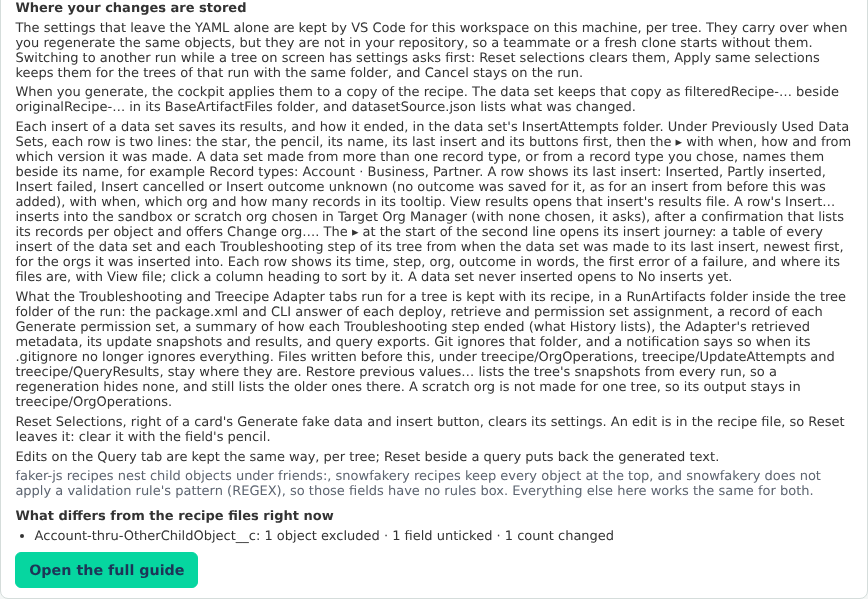
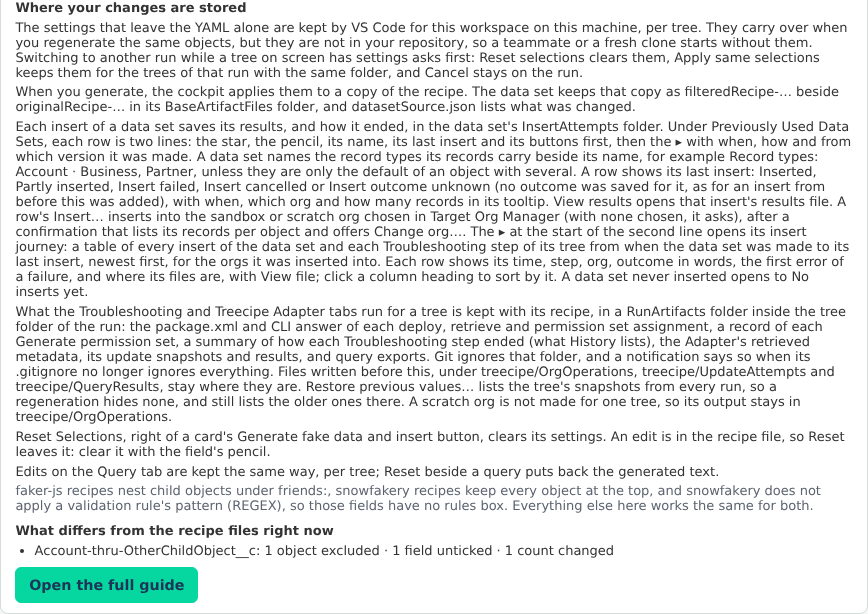
Review follow-ups on #626: wording, unused code, chip style, one read, tag caps
- Help, guide and comments: a data set names the record types its records
  carry unless only the default of an object with several (an object with
  one record type is named too, which "you chose" did not say).
- RecipeCockpitService calls the writer's record type block reader
  directly; the pass-through wrappers, the type re-export and the unused
  RECIPE_COCKPIT_RECORD_TYPE_OPTIONS_MARKER are gone.
- The data set chip has its own .treeDatasetRecordTypes rule on the chip
  palette pair, so no .recordTypeChip selector or z-index reaches it.
- Run Faker reads the tag from the cockpit's copy it already holds.
- readRecordTypesByObject drops a tag naming more than 100 objects or 200
  record types for one.

Claude-Session: https://claude.ai/code/session_01QDhJJFF5bBshNDcQUCgtYf

Changed region(s): [[0.0, 0.0, 0.9954, 0.9616], [0.4666, 0.8715, 0.7154, 0.9015]]

diff --git a/src/treecipe/src/RecipeCockpitService/RecipeCockpitService.ts b/src/treecipe/src/RecipeCockpitService/RecipeCockpitService.ts
@@ -483,7 +483,6 @@ export const RECIPE_COCKPIT_ADD_PARENT_OBJECT_NEST_LABEL = 'Add as the parent, n
 export const RECIPE_COCKPIT_TREE_TABS = ['treecipe', 'datasets', 'troubleshooting', 'query', 'updater'] as const;
 
 // THE TODO RecipeService WRITES UNDER A DEFAULT RecordTypeId (AND EVERY RECORD-TYPE VARIANT) WHEN AN OBJECT HAS SEVERAL RECORD TYPES
-export const RECIPE_COCKPIT_RECORD_TYPE_OPTIONS_MARKER = '### TODO: -- RecordType Options -- ';
 export const RECIPE_COCKPIT_TODO_REMOVE_CONFIRM_LABEL = 'Remove TODO';
 export const RECIPE_COCKPIT_TODO_RESTORE_CONFIRM_LABEL = 'Restore TODO';
 export const RECIPE_COCKPIT_TODO_REMOVE_REFUSAL_PREFIX = 'The TODO was not removed';
@@ -649,7 +648,7 @@ export const RECIPE_COCKPIT_HELP_SECTIONS: readonly IRecipeCockpitHelpSection[] 
         paragraphs: [
             'The settings that leave the YAML alone are kept by VS Code for this workspace on this machine, per tree. They carry over when you regenerate the same objects, but they are not in your repository, so a teammate or a fresh clone starts without them. Switching to another run while a tree on screen has settings asks first: Reset selections clears them, Apply same selections keeps them for the trees of that run with the same folder, and Cancel stays on the run.',
             'When you generate, the cockpit applies them to a copy of the recipe. The data set keeps that copy as filteredRecipe-… beside originalRecipe-… in its BaseArtifactFiles folder, and datasetSource.json lists what was changed.',
-            'Each insert of a data set saves its results, and how it ended, in the data set\'s InsertAttempts folder. Under Previously Used Data Sets, each row is two lines: the star, the pencil, its name, its last insert and its buttons first, then the ▸ with when, how and from which version it was made. A data set made from more than one record type, or from a record type you chose, names them beside its name, for example Record types: Account · Business, Partner. A row shows its last insert: Inserted, Partly inserted, Insert failed, Insert cancelled or Insert outcome unknown (no outcome was saved for it, as for an insert from before this was added), with when, which org and how many records in its tooltip. View results opens that insert\'s results file. A row\'s Insert… inserts into the sandbox or scratch org chosen in Target Org Manager (with none chosen, it asks), after a confirmation that lists its records per object and offers Change org…. The ▸ at the start of the second line opens its insert journey: a table of every insert of the data set and each Troubleshooting step of its tree from when the data set was made to its last insert, newest first, for the orgs it was inserted into. Each row shows its time, step, org, outcome in words, the first error of a failure, and where its files are, with View file; click a column heading to sort by it. A data set never inserted opens to No inserts yet.',
+            'Each insert of a data set saves its results, and how it ended, in the data set\'s InsertAttempts folder. Under Previously Used Data Sets, each row is two lines: the star, the pencil, its name, its last insert and its buttons first, then the ▸ with when, how and from which version it was made. A data set names the record types its records carry beside its name, for example Record types: Account · Business, Partner, unless they are only the default of an object with several. A row shows its last insert: Inserted, Partly inserted, Insert failed, Insert cancelled or Insert outcome unknown (no outcome was saved for it, as for an insert from before this was added), with when, which org and how many records in its tooltip. View results opens that insert\'s results file. A row\'s Insert… inserts into the sandbox or scratch org chosen in Target Org Manager (with none chosen, it asks), after a confirmation that lists its records per object and offers Change org…. The ▸ at the start of the second line opens its insert journey: a table of every insert of the data set and each Troubleshooting step of its tree from when the data set was made to its last insert, newest first, for the orgs it was inserted into. Each row shows its time, step, org, outcome in words, the first error of a failure, and where its files are, with View file; click a column heading to sort by it. A data set never inserted opens to No inserts yet.',
             'What the Troubleshooting and Treecipe Adapter tabs run for a tree is kept with its recipe, in a RunArtifacts folder inside the tree folder of the run: the package.xml and CLI answer of each deploy, retrieve and permission set assignment, a record of each Generate permission set, a summary of how each Troubleshooting step ended (what History lists), the Adapter\'s retrieved metadata, its update snapshots and results, and query exports. Git ignores that folder, and a notification says so when its .gitignore no longer ignores everything. Files written before this, under treecipe/OrgOperations, treecipe/UpdateAttempts and treecipe/QueryResults, stay where they are. Restore previous values… lists the tree\'s snapshots from every run, so a regeneration hides none, and still lists the older ones there. A scratch org is not made for one tree, so its output stays in treecipe/OrgOperations.',
             'Reset Selections, right of a card\'s Generate fake data and insert button, clears its settings. An edit is in the recipe file, so Reset leaves it: clear it with the field\'s pencil.',
             'Edits on the Query tab are kept the same way, per tree; Reset beside a query puts back the generated text.'
@@ -1282,8 +1281,6 @@ export interface IRecipeSourceFile {
     objectEntries: Map<string, IRecipeSourceObjectEntry>;
 }
 
-// WHAT A RUN'S BLOCKS WRITE AS RecordTypeId, COLLECTED BY THE SAME SCAN parseRecipeSource MAKES (#195); THE WRITER READS IT (#621)
-export type { IRecipeRecordTypeBlocks };
 
 /*
     Everything the cockpit webview can post back.
@@ -20774,18 +20771,6 @@ export class RecipeCockpitService {
     }
 
     // AN OBJECT WHOSE RECIPE NAMES NONE OF ITS RECORD TYPES IS DRAWN WITH THE DEFAULT TICKED: THE FIRST ACTIVE ONE, AS GENERATION PICKS
-    static buildEmptyRecordTypeBlocks(): IRecipeRecordTypeBlocks {
-
-        return RecipeCockpitRecipeWriter.buildEmptyRecordTypeBlocks();
-
-    }
-
-    static collectRecordTypeBlocks(lines: string[], scannedObjects: IScannedObject[], recordTypeBlocks: IRecipeRecordTypeBlocks): void {
-
-        RecipeCockpitRecipeWriter.collectRecordTypeBlocks(lines, scannedObjects, recordTypeBlocks);
-
-    }
-
     static applyGeneratedRecordTypes(objects: IRecipeCockpitObjectViewModel[], recordTypeBlocks: IRecipeRecordTypeBlocks): void {
 
         const { developerNamesByObjectApiName, defaultWrittenObjectApiNames } = recordTypeBlocks;
@@ -21136,7 +21121,7 @@ export class RecipeCockpitService {
         const recipeSourceFiles: IRecipeSourceFile[] = [];
         const notices: string[] = [];
         const recipeTextsByFilePath = new Map<string, string>();
-        const recordTypeBlocks = this.buildEmptyRecordTypeBlocks();
+        const recordTypeBlocks = RecipeCockpitRecipeWriter.buildEmptyRecordTypeBlocks();
 
         this.collectRecipeFilePaths(runFolderPath)
             .filter(recipeFilePath => SfdxProjectService.isPathContainedInWorkspace(path.resolve(recipeFilePath), path.resolve(workspaceRoot)))
@@ -21215,7 +21200,7 @@ export class RecipeCockpitService {
         const { lines } = RecipeCockpitRecipeWriter.splitRecipeLines(recipeContent);
         const scannedObjects = RecipeCockpitRecipeWriter.scanRecipeObjects(lines);
         if ( recordTypeBlocks ) {
-            this.collectRecordTypeBlocks(lines, scannedObjects, recordTypeBlocks);
+            RecipeCockpitRecipeWriter.collectRecordTypeBlocks(lines, scannedObjects, recordTypeBlocks);
         }
         const scannedFriendIndex = RecipeCockpitRecipeWriter.buildScannedFriendIndex(scannedObjects);
         const scannedObjectsByHeaderIndex = scannedFriendIndex.objectsByHeaderIndex;
@@ -21921,6 +21906,7 @@ ${COCKPIT_KIT_BUTTON_KIND_CHECK_STYLES}
         background-color: var(--sdt-chip-bg);
         border-radius: 3px;
     }
+    .treeDatasetRecordTypes { padding: 0 0.35em; font-size: 0.85em; color: var(--sdt-chip-text); background-color: var(--sdt-chip-bg); border-radius: 3px; }
     .recordTypeChip {
         position: relative;
         z-index: 2;
@@ -27284,10 +27270,10 @@ ${COCKPIT_KIT_CREATE_BUTTON_SCRIPT}
         rowState.nameElement = createElement('span', 'treeDatasetName');
         primaryLineElement.appendChild(rowState.nameElement);
 
-        // THE RECORD TYPES ITS RECORDS CARRY (#621), BESIDE THE NAME A READER PICKS A DATA SET BY
+        // THE RECORD TYPES ITS RECORDS CARRY (#621), BESIDE THE NAME A READER PICKS A DATA SET BY; ITS OWN CLASS, SO NO .recordTypeChip SELECTOR FINDS IT
         if (dataset.recordTypes) {
             const recordTypesText = formatDatasetRecordTypes(dataset.recordTypes);
-            const recordTypesChipElement = createElement('span', 'recordTypeChip treeDatasetRecordTypes', recordTypesText);
+            const recordTypesChipElement = createElement('span', 'treeDatasetRecordTypes', recordTypesText);
             recordTypesChipElement.setAttribute('title', 'Generated with ' + recordTypesText);
             primaryLineElement.appendChild(recordTypesChipElement);
         }

diff --git a/src/treecipe/src/DatasetSourceService/DatasetSourceService.ts b/src/treecipe/src/DatasetSourceService/DatasetSourceService.ts
@@ -10,6 +10,10 @@ const BASE_ARTIFACT_FILES_FOLDER_NAME = 'BaseArtifactFiles';
 // SalesforceApiName.pattern, repeated so this service keeps importing only fs and path; a test holds the two equal
 export const DATASET_SOURCE_API_NAME_PATTERN = /^[A-Za-z][A-Za-z0-9_]*$/;
 
+// THE MOST A recordTypesByObject TAG MAY NAME (#621): ONE GENERATE TICKS A FEW PER OBJECT, SO ANYTHING NEAR THESE WAS NOT WRITTEN BY RUN FAKER
+export const DATASET_SOURCE_MAX_RECORD_TYPE_OBJECTS = 100;
+export const DATASET_SOURCE_MAX_RECORD_TYPES_PER_OBJECT = 200;
+
 // ConfigurationService.getDatasetFilesForCollectionsApiFolderName, repeated so this service keeps importing only fs and path
 export const DATASET_COLLECTIONS_API_FOLDER_NAME = 'DatasetFilesForCollectionsApi';
 
@@ -108,7 +112,7 @@ export interface IDatasetSource {
     constraintsByObject?: Record<string, Record<string, IDatasetSourceFieldConstraint>>;
     // THE FIELDS WHOSE VALIDATION RULES THE RECIPE COCKPIT SWITCHED OFF (#325), BY OBJECT; ABSENT WHEN NONE WAS. READ BACK WITH NO PROTOTYPE
     validationRulesOffByObject?: Record<string, string[]>;
-    // THE RECORD TYPES THE RECORDS CARRY BECAUSE THEY WERE CHOSEN (#621), BY OBJECT, DEVELOPER NAMES IN BLOCK ORDER; ABSENT WHEN NONE WAS. READ BACK WITH NO PROTOTYPE
+    // THE RECORD TYPES THE RECORDS CARRY (#621), UNLESS ONLY THE DEFAULT OF AN OBJECT WITH SEVERAL, BY OBJECT, DEVELOPER NAMES IN BLOCK ORDER; ABSENT WHEN NONE IS. READ BACK WITH NO PROTOTYPE
     recordTypesByObject?: Record<string, string[]>;
     adaptation?: IDatasetSourceAdaptation;
 }
@@ -704,6 +708,8 @@ export class DatasetSourceService {
         The record types a data set carries (#621), as untrusted JSON. Unlike the fields above, a tag
         only labels a row, so one out of shape is dropped and the rest of the file still reads: every
         object and developer name must be an api name, each list non-empty, and the map has no prototype.
+        The file arrives with a cloned repository, and the panel draws the tag as one chip, so a tag
+        naming more than an org could hold is dropped too.
     */
     static readRecordTypesByObject(candidate: unknown): Record<string, string[]> | undefined {
 
@@ -712,10 +718,11 @@ export class DatasetSourceService {
         }
 
         const entries = Object.entries(candidate as Record<string, unknown>);
-        const isEveryEntryValid = entries.length > 0 && entries.every(([objectApiName, developerNames]) => (
+        const isEveryEntryValid = entries.length > 0 && entries.length <= DATASET_SOURCE_MAX_RECORD_TYPE_OBJECTS && entries.every(([objectApiName, developerNames]) => (
             DATASET_SOURCE_API_NAME_PATTERN.test(objectApiName)
             && Array.isArray(developerNames)
             && developerNames.length > 0
+            && developerNames.length <= DATASET_SOURCE_MAX_RECORD_TYPES_PER_OBJECT
             && developerNames.every(developerName => typeof developerName === 'string' && DATASET_SOURCE_API_NAME_PATTERN.test(developerName))
         ));
 

diff --git a/src/treecipe/src/DatasetSourceService/tests/DatasetSourceService.test.ts b/src/treecipe/src/DatasetSourceService/tests/DatasetSourceService.test.ts
@@ -9,6 +9,8 @@ import {
     DatasetSourceService,
     DATASET_COLLECTIONS_API_FOLDER_NAME,
     DATASET_SOURCE_API_NAME_PATTERN,
+    DATASET_SOURCE_MAX_RECORD_TYPE_OBJECTS,
+    DATASET_SOURCE_MAX_RECORD_TYPES_PER_OBJECT,
     DATASET_SOURCE_FILE_NAME,
     IDatasetSource,
     IKnownRecipeRun
@@ -754,6 +756,18 @@ describe('DatasetSourceService', () => {
                 const readSource = DatasetSourceService.typeCheckDatasetSource({ ...validDatasetSource, recordTypesByObject });
 
                 expect(readSource).toEqual(validDatasetSource);
+
+            });
+
+            test('reads a tag at its caps, and drops one past either cap', () => {
+
+                const listDeveloperNames = (developerNameCount: number) => Array.from({ length: developerNameCount }, (_unused, developerNameIndex) => `Type${developerNameIndex}`);
+                const buildObjects = (objectCount: number) => Object.fromEntries(Array.from({ length: objectCount }, (_unused, objectIndex) => [`Object${objectIndex}__c`, ['Business']]));
+
+                expect(DatasetSourceService.typeCheckDatasetSource({ ...validDatasetSource, recordTypesByObject: buildObjects(DATASET_SOURCE_MAX_RECORD_TYPE_OBJECTS) })).toHaveProperty('recordTypesByObject');
+                expect(DatasetSourceService.typeCheckDatasetSource({ ...validDatasetSource, recordTypesByObject: { Account: listDeveloperNames(DATASET_SOURCE_MAX_RECORD_TYPES_PER_OBJECT) } })).toHaveProperty('recordTypesByObject');
+                expect(DatasetSourceService.typeCheckDatasetSource({ ...validDatasetSource, recordTypesByObject: buildObjects(DATASET_SOURCE_MAX_RECORD_TYPE_OBJECTS + 1) })).toEqual(validDatasetSource);
+                expect(DatasetSourceService.typeCheckDatasetSource({ ...validDatasetSource, recordTypesByObject: { Account: listDeveloperNames(DATASET_SOURCE_MAX_RECORD_TYPES_PER_OBJECT + 1) } })).toEqual(validDatasetSource);
 
             });
 

diff --git a/src/treecipe/src/RecipeCockpitService/tests/RecipeCockpitRecordTypes.test.ts b/src/treecipe/src/RecipeCockpitService/tests/RecipeCockpitRecordTypes.test.ts
@@ -31,6 +31,7 @@ import { RecipeService } from '../../RecipeService/RecipeService';
 import { FakerJSRecipeFakerService } from '../../RecipeFakerService.ts/FakerJSRecipeFakerService/FakerJSRecipeFakerService';
 import { RecordTypeSelection } from '../../RecordTypeService/RecordTypeSelection';
 import { RecordTypeSelectionConfiguration } from '../../RecordTypeSelectionService/RecordTypeSelectionConfiguration';
+import { RecipeCockpitRecipeWriter } from '../../RecipeWriter/RecipeCockpitRecipeWriter';
 
 /*
     The Record types tab (#195): each tree card lists the objects it draws that have two or more
@@ -159,7 +160,7 @@ describe('RecipeCockpitService, the Record types tab (#195)', () => {
         describe('applyGeneratedRecordTypes', () => {
 
             const readRecordTypeBlocks = (recipeTexts: string[]) => {
-                const recordTypeBlocks = RecipeCockpitService.buildEmptyRecordTypeBlocks();
+                const recordTypeBlocks = RecipeCockpitRecipeWriter.buildEmptyRecordTypeBlocks();
                 recipeTexts.forEach(recipeText => RecipeCockpitService.parseRecipeSource(recipeText, recordTypeBlocks));
                 return recordTypeBlocks;
             };

diff --git a/src/treecipe/src/RecipeCockpitService/RecipeCockpitTreeHistory.ts b/src/treecipe/src/RecipeCockpitService/RecipeCockpitTreeHistory.ts
@@ -73,7 +73,7 @@ export interface IRecipeCockpitTreeDatasetViewModel {
     isFavorite?: boolean;
     // A DATA SET THE TREECIPE ADAPTER WROTE (#448), DRAWN WITH AN "adapted" LABEL; ABSENT OTHERWISE
     isAdapted?: true;
-    // THE RECORD TYPES ITS RECORDS CARRY BECAUSE THEY WERE CHOSEN (#621), IN THE ORDER datasetSource.json NAMES THEM; ABSENT WHEN IT NAMES NONE
+    // THE RECORD TYPES ITS RECORDS CARRY (#621), UNLESS ONLY THE DEFAULT OF AN OBJECT WITH SEVERAL, IN THE ORDER datasetSource.json NAMES THEM; ABSENT WHEN IT NAMES NONE
     recordTypes?: IRecipeCockpitDatasetRecordTypesViewModel[];
     // ITS NEWEST INSERT (#469); ABSENT FOR A DATA SET NEVER INSERTED, WHICH DRAWS AS IT ALWAYS DID
     lastInsert?: IRecipeCockpitDatasetLastInsertViewModel;

diff --git a/src/treecipe/src/ExtensionCommandService/ExtensionCommandService.ts b/src/treecipe/src/ExtensionCommandService/ExtensionCommandService.ts
@@ -342,7 +342,7 @@ export class ExtensionCommandService {
                 filteredRecipe?.fixedValuesByObject ?? {},
                 filteredRecipe?.constraintsByObject ?? {},
                 filteredRecipe?.validationRulesOffByObject ?? {},
-                Object.fromEntries(RecipeCockpitRecipeWriter.listChosenRecordTypesByObject(fs.readFileSync(generationRecipeFilePath, 'utf8')))
+                Object.fromEntries(RecipeCockpitRecipeWriter.listChosenRecordTypesByObject(filteredRecipe?.recipeText ?? fs.readFileSync(generationRecipeFilePath, 'utf8')))
             );
             DatasetSourceService.writeDatasetSourceFile(fullPathToBaseArtifactsFolder, datasetSource);
             datasetFolderPath = fullPathToUniqueTimeStampedFakeDataSetsFolder;

diff --git a/src/treecipe/src/RecipeWriter/DESIGN.md b/src/treecipe/src/RecipeWriter/DESIGN.md
@@ -6,7 +6,7 @@
 
 - **The Recipe Cockpit writes a recipe by patching LINES, never by round-tripping YAML** — both backends emit recipes as template strings, and the `### TODO` comments in them carry meaning (which record type to pick, which lookup needs a reference) that `js-yaml` drops on `dump`, so a load-and-dump is lossy by construction. `RecipeCockpitRecipeWriter` is pure and imports NOTHING (a test fails if it gains an import): text in, text plus an `edit` or a typed refusal out. It holds to the same layout contract `parseRecipeSource` reads — the reader IS its `scanRecipeObjects` — and every line outside the touched field's own lines is byte-identical afterwards, line ending included — new lines take the ending of the line they follow, and a missing final newline stays missing. The READER takes the first occurrence of an object or field, which is right for jumping to a line and wrong for changing one, so the WRITER refuses a duplicate object, field, `fields:` block or property rather than guessing which the reader meant. A friend under `friends:` (#46) is the same contract shifted: `scanRecipeObjects` keeps the open objects as a stack, one per level, the object at depth d has its `- object:` at column 4d and every other column (`getObjectLayout`) four spaces deeper per level, and a `- object:` line opens a friend ONLY one level down and only inside its parent's `friends:` block — anywhere else it is an unrecognized line, as it always was. A value handed to `insertField`/`replaceFieldValue` is written as for a top-level object and its continuation lines are moved to the friend's depth, so no caller has to know the depth. `commentOutField` is the removal because it is reversible: the lines sit at the FIELD column (four spaces at the top level) under a `### TODO -- RECIPE COCKPIT -- FIELD COMMENTED OUT -- <field> -- <n> lines` marker (deeper would read as the previous field's continuation), their encoding has one inverse, and `restoreCommentedOutField` gives the original back byte for byte. The COUNT is what bounds a restore — without it a reader's own comment directly below read as more of the field — and restore refuses unless those lines are still exactly what was written — which is why the reader treats a comment at field depth or shallower as ending the FIELD and not the BLOCK. The `yaml` package's comment-preserving `Document` API was the alternative; it is a new runtime dependency and re-flows `${{ }}` scalars, so it would still need every fidelity test. Values and names are validated so no argument can add a line the layout would read as another field or object — and that includes the line breaks the JS split does not see: PyYAML (snowfakery's reader) breaks at U+0085, U+2028 and U+2029, so a value carrying one is refused rather than split. Every call scans the whole file, so bulk edits need a one-scan batch entry point before a slice applies them. `insertFriend` (#197) is the one operation that ADDS an object: it copies the friend's own block from the occurrence above a self-lookup iteration (never its `friends:`), one level deeper, with a nickname no occurrence holds and every value that was the top occurrence's nickname re-pointed at the iteration's, and it reads its result back through `scanRecipeObjects` before answering. `listInsertableFriendObjectApiNames` is what the cockpit's **+** offers, so the panel and the writer share one answer — `parseRecipeSource` calls it for EVERY iteration at every load, so it takes the `buildScannedFriendIndex` built once per scan and must never walk the whole scan per call (that was 18 s at 11,000 objects); it also refuses a copy carrying a lone CR or U+0085/U+2028/U+2029, since text after one would keep its old column; the panel posts `addIterationFriend` with four NAMES, matched against `insertableFriendTargets` (pending/active, keyed by tree, object, nickname and friend, mapped to the host-only recipe file), and the host asks in a modal, writes and reloads focused on the card's Treecipe tab
 
-- **The writer reads a recipe's `RecordTypeId` blocks for the cockpit AND Run Faker** (#621) — `IRecipeRecordTypeBlocks`, `buildEmptyRecordTypeBlocks` and `collectRecordTypeBlocks` moved here from `RecipeCockpitService` (which keeps delegating wrappers and re-exports the type) so `ExtensionCommandService` can read them without importing the cockpit. A block written as the DEFAULT carries the RecordType Options TODO under its `RecordTypeId`; `listChosenRecordTypesByObject` keeps only objects no block wrote that way. An object with exactly one record type is written with no TODO, so its data set names it: its records do carry it. A test holds every golden recipe, generated with no choice, to an empty answer.
+- **The writer reads a recipe's `RecordTypeId` blocks for the cockpit AND Run Faker** (#621) — `IRecipeRecordTypeBlocks`, `buildEmptyRecordTypeBlocks` and `collectRecordTypeBlocks` moved here from `RecipeCockpitService`, which now calls them here, so `ExtensionCommandService` can read them without importing the cockpit. A block written as the DEFAULT carries the RecordType Options TODO under its `RecordTypeId`; `listChosenRecordTypesByObject` keeps only objects no block wrote that way. An object with exactly one record type is written with no TODO, so its data set names it: its records do carry it. A test holds every golden recipe, generated with no choice, to an empty answer.
 
 ## Files
 

diff --git a/src/treecipe/src/RecipeCockpitService/DESIGN.md b/src/treecipe/src/RecipeCockpitService/DESIGN.md
@@ -108,7 +108,7 @@ Design notes moved out of CLAUDE.md (#563). Read this before changing the servic
 - **Rendered baselines: what each key screen looks like, as text** (#580, slice D of #576) — `tests/acceptance/CockpitBaselines.ts` opens 11 screens from fixture workspaces (the empty state, a run whose wrapper cannot be read, a card on each of the five tabs, an open in-panel confirmation, the field editor, the picklist tiles and the help section) and keeps each as `baselines/<screen>.txt`: the whole page as `screen().lines()` prints it, so role, accessible name, value and state in document order, never a CSS class. A difference fails with a unified diff (`ExtensionCommandService/tests/UnifiedDiff.ts`, shared with the golden test); `UPDATE_COCKPIT_BASELINES=1` rewrites the files, and the PR says what a reader now sees differently. `BaselinesCatchChanges.test.ts` edits the shell -- one label, the order of two buttons -- and expects exactly the baselines whose files show it to fail, reading which ones off the files. A CSS-only change is not caught here; a Chromium comparison of the same screens is #602, since it needs Playwright as a devDependency (#588: a dependency changes only in its own PR).
 - **What host work outside a handler draws is waited for, not raced** (#580) — every reader action (click, answering a confirmation, a quick pick, an input box or a notification button, choosing an option) looks for its target, and if it is not there yet, or disabled, settles and looks again until the stall limit, then fails with its usual message. A journey asserts every confirmation and prompt the cockpit really shows; none answers one only if it happens to be up, which would pass whether or not a refactor added or dropped it. a tree's data sets are added after an insert answers, a card's readiness is checked again after an insert, and settle's quiet rounds can end before either lands. `waitFor(role, name, within?, { isEnabled })` settles until it is on screen (and enabled), within the stall limit, and fails naming what was there instead. `settle` and `waitFor` read `performance.now()`, which a journey that fakes `Date` (the Data Sets journeys fix the clock, since a data set and an insert attempt are named to the second) does not stop. The fake org answers `sobject(x).update` per record unless `updateAnswer` says otherwise. Messages are copied as VS Code copies them (`copyAsVsCodeDelivers` in `RecipeCockpitPanelHarness.ts`, #604): JSON-serialized as they are posted, each way, as `setState` already was. Before that, the panel held the host's own model, so the host's in-place add of a data set (`postAddedDataset`) made the panel find it already listed and draw no row on an open tab -- a harness artifact the Data Sets journeys first worked around by reopening the cockpit. #604's journey builds the tab before the second insert and fails if messages are shared again.
 
-- **A data set row names the record types its records carry, as text on line 1** (#621, slice A of #620) — `RecipeCockpitTreeHistory` posts `recordTypes` (`{objectApiName, developerNames}` in the order `datasetSource.json` names them) only on a data set whose source records them, so a workspace with none posts what it always did. `buildDatasetRowState` draws one `recordTypeChip treeDatasetRecordTypes` span after the name (`Record types: Account · Business, Partner; …`, `RECIPE_COCKPIT_DATASET_RECORD_TYPES_LABEL_PREFIX`) by `textContent`, reusing the field chip's palette pair. The row search does not read it (#620 leaves searching by tag out of scope).
+- **A data set row names the record types its records carry, as text on line 1** (#621, slice A of #620) — `RecipeCockpitTreeHistory` posts `recordTypes` (`{objectApiName, developerNames}` in the order `datasetSource.json` names them) only on a data set whose source records them, so a workspace with none posts what it always did. `buildDatasetRowState` draws one `treeDatasetRecordTypes` span after the name (`Record types: Account · Business, Partner; …`, `RECIPE_COCKPIT_DATASET_RECORD_TYPES_LABEL_PREFIX`) by `textContent`, with its own rule on the field chip's palette pair, so no `.recordTypeChip` selector or stacking rule reaches it. The row search does not read it (#620 leaves searching by tag out of scope).
 ## Files
 
 What CLAUDE.md's Project Structure said about these files before #563 trimmed it to one line each.

diff --git a/CHANGELOG.md b/CHANGELOG.md
@@ -4,10 +4,10 @@
 
 A data set row did not say which record types its records carry, so a Business-only set and a Business + Partner set looked the same.
 
-- **Recorded.** Run Faker by Recipe writes `recordTypesByObject` to `BaseArtifactFiles/datasetSource.json`: each object's developer names, in block order, read from the `RecordTypeId: <Object>.<DeveloperName>` lines of the recipe it actually ran (the Recipe Cockpit's filtered copy included). Only an object no block wrote as the default (with the RecordType Options TODO under it) is recorded, so a run generated with no record type choice writes the file exactly as before. An object with a single record type is written with no TODO, so it is recorded too: its records carry it. Both backends.
-- **Shown.** Each Previously Used Data Sets row whose data set records them draws `Record types: Account · Business, Partner` after its name, on line 1 of the row header. A data set from before this draws nothing new. Searching by it is left to a later slice of #620.
-- **Read safely.** The reader drops a `recordTypesByObject` that is not a non-empty map of api names to non-empty lists of api names, and the rest of the file still reads; the map has no prototype. Every other field still refuses the whole file, since the cockpit acts on those.
-- **One reader.** The `RecordTypeId` block reader moved from `RecipeCockpitService` into `RecipeCockpitRecipeWriter` (which imports nothing), so Run Faker reads blocks the same way the cockpit does. The cockpit keeps delegating wrappers.
+- **Recorded.** Run Faker by Recipe writes `recordTypesByObject` to `BaseArtifactFiles/datasetSource.json`: each object's developer names, in block order, read from the `RecordTypeId: <Object>.<DeveloperName>` lines of the recipe it actually ran (the Recipe Cockpit's filtered copy included). Only an object no block wrote as the default (with the RecordType Options TODO under it) is recorded, so a run generated with no record type choice writes the file exactly as before. An object with a single record type is written with no TODO, so it is recorded too: its records carry it. A cockpit run reads the copy it already holds rather than the file again. Both backends.
+- **Shown.** Each Previously Used Data Sets row whose data set records them draws `Record types: Account · Business, Partner` after its name, on line 1 of the row header, in its own chip style. A data set from before this draws nothing new. Searching by it is left to a later slice of #620.
+- **Read safely.** The reader drops a `recordTypesByObject` that is not a non-empty map of api names to non-empty lists of api names, or that names more than 100 objects or 200 record types for one, and the rest of the file still reads; the map has no prototype. Every other field still refuses the whole file, since the cockpit acts on those.
+- **One reader.** The `RecordTypeId` block reader moved from `RecipeCockpitService` into `RecipeCockpitRecipeWriter` (which imports nothing), so Run Faker reads blocks the same way the cockpit does. The cockpit calls it there, and its unused `RECIPE_COCKPIT_RECORD_TYPE_OPTIONS_MARKER` is gone.
 - **Help, guide and screenshots.** The ? help and `docs/RECIPE-COCKPIT-GUIDE.md` describe the chip; two pictures are re-taken.
 - **Tests.** `DatasetSourceService`: written only when named, read back in order with no prototype, dropped for each bad shape while the file reads, the pattern held equal to `SalesforceApiName`'s. `RecipeCockpitRecipeWriter`: chosen blocks, nested friends, defaults, commented lines, another object's value, every golden recipe answering none. `runFakerGenerationByRecipeFile`: both backends, a default block, the cockpit's copy. `RecipeCockpitDatasetRecordTypes.test.ts`: the posted model and the drawn chip.
 

diff --git a/src/treecipe/src/DatasetSourceService/DESIGN.md b/src/treecipe/src/DatasetSourceService/DESIGN.md
@@ -4,7 +4,7 @@ Design notes moved out of CLAUDE.md (#563). Read this before changing the servic
 
 - **A data set records its source by NAME, and the reader never trusts the names** — Run Faker by Recipe writes `BaseArtifactFiles/datasetSource.json` naming the recipe run folder, tree folder and recipe file, taken from the recipe's position under `GeneratedRecipes/` (`null` run and tree for a recipe directly under it). It is a file in the user's workspace, so `DatasetSourceService.readDatasetSource` type-checks every field (`unreadable` otherwise), refuses any name that is empty, carries a separator or is a `..` (or `.`) segment — `my..recipe.yml` and `team..v2` are names, not paths (#185) — and links only a name that matches a run and tree folder on disk (`unknown` otherwise). It never throws: a data set the reader cannot place is a status, not a failure of whatever lists it. A data set from before the file is linked only when its single recipe copy and single wrapper copy agree on a run that is still there — anything ambiguous is `unknown` rather than a guess. Its `origin` is `runFaker` or `createInOrg` (#180), and `orgUsername`, `createdObjectApiName` and `createdRecordIds` are present exactly when it is `createInOrg`. The data set folder takes the first free of `<name>`, `<name>-2`, … with `mkdirSync` as the existence check, and every reader of data set folder names must accept that suffix. The service imports only `fs` and `path`, so the cockpit and any non-vscode tooling can read it
 
-- **`recordTypesByObject` is a label, so one out of shape is DROPPED, not the file** (#621) — every other optional field refuses the whole `datasetSource.json` when it is out of shape, because the cockpit acts on it (exclusions, counts, fixed values). The record types only name what a row's records carry, so `readRecordTypesByObject` answers `undefined` for anything but a non-empty map of api names to non-empty lists of api names, and the rest of the file still reads. It is read into a no-prototype map; `__proto__` is no api name, and `constructor` is kept as an own key. The api-name rule is `DATASET_SOURCE_API_NAME_PATTERN`, a copy of `SalesforceApiName.pattern` so the service keeps importing only `fs` and `path`; a test holds the two equal. Run Faker writes the field from the recipe text it actually ran (`RecipeCockpitRecipeWriter.listChosenRecordTypesByObject`), only for objects no block wrote as the default, so a run generated with no choice writes the file byte for byte as before.
+- **`recordTypesByObject` is a label, so one out of shape is DROPPED, not the file** (#621) — every other optional field refuses the whole `datasetSource.json` when it is out of shape, because the cockpit acts on it (exclusions, counts, fixed values). The record types only name what a row's records carry, so `readRecordTypesByObject` answers `undefined` for anything but a non-empty map of api names to non-empty lists of api names, and the rest of the file still reads. It is read into a no-prototype map; `__proto__` is no api name, and `constructor` is kept as an own key. A tag naming more than `DATASET_SOURCE_MAX_RECORD_TYPE_OBJECTS` objects or `DATASET_SOURCE_MAX_RECORD_TYPES_PER_OBJECT` names for one is dropped too: the file arrives with a cloned repository, and the panel draws the tag as one chip. The api-name rule is `DATASET_SOURCE_API_NAME_PATTERN`, a copy of `SalesforceApiName.pattern` so the service keeps importing only `fs` and `path`; a test holds the two equal. Run Faker writes the field from the recipe text it actually ran (`RecipeCockpitRecipeWriter.listChosenRecordTypesByObject`), only for objects no block wrote as the default, so a run generated with no choice writes the file byte for byte as before.
 
 ## Files
 

diff --git a/docs/RECIPE-COCKPIT-GUIDE.md b/docs/RECIPE-COCKPIT-GUIDE.md
@@ -106,7 +106,7 @@ When you generate, the cockpit applies them to a copy of the recipe.
 The data set keeps that copy as `filteredRecipe-…` beside `originalRecipe-…` in its `BaseArtifactFiles` folder, and `datasetSource.json` lists what was changed.
 Each insert of a data set saves its results, and how it ended, in the data set's `InsertAttempts` folder.
 Under **Previously Used Data Sets**, each row is two lines: the star, the pencil, its name, its last insert and its buttons first, then the **▸** with when, how and from which version it was made.
-A data set made from more than one record type, or from a record type you chose, names them beside its name, for example **Record types: Account · Business, Partner**.
+A data set names the record types its records carry beside its name, for example **Record types: Account · Business, Partner**, unless they are only the default of an object with several.
 A row shows its last insert: ✅ **Inserted**, ⚠ **Partly inserted**, ❌ **Insert failed**, 🚫 **Insert cancelled** or ❔ **Insert outcome unknown** (no outcome was saved for it, as for an insert from before this was added), with when, which org and how many records in its tooltip.
 **View results** opens that insert's results file.
 A row's **Insert…** inserts into the sandbox or scratch org chosen in **Target Org Manager** (with none chosen, it asks), after a confirmation that lists its records per object and offers **Change org…**.
